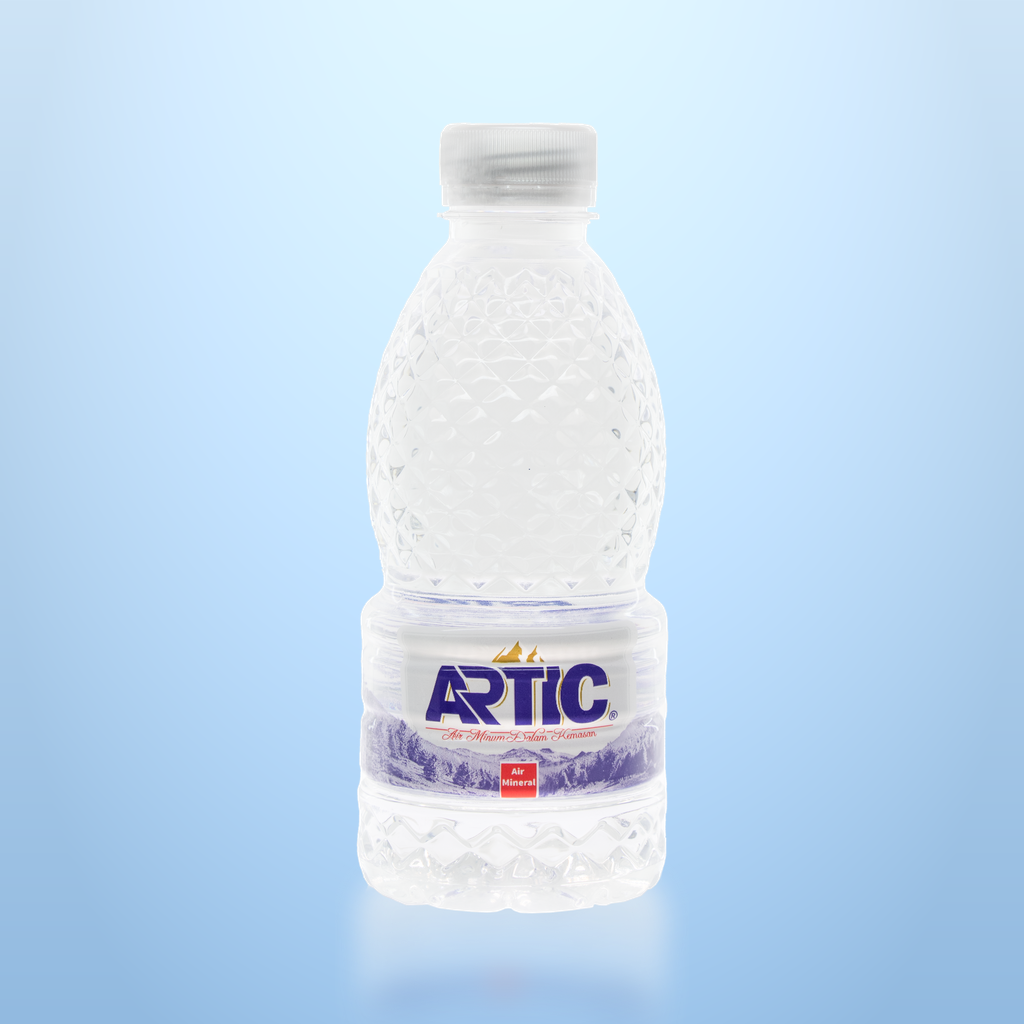
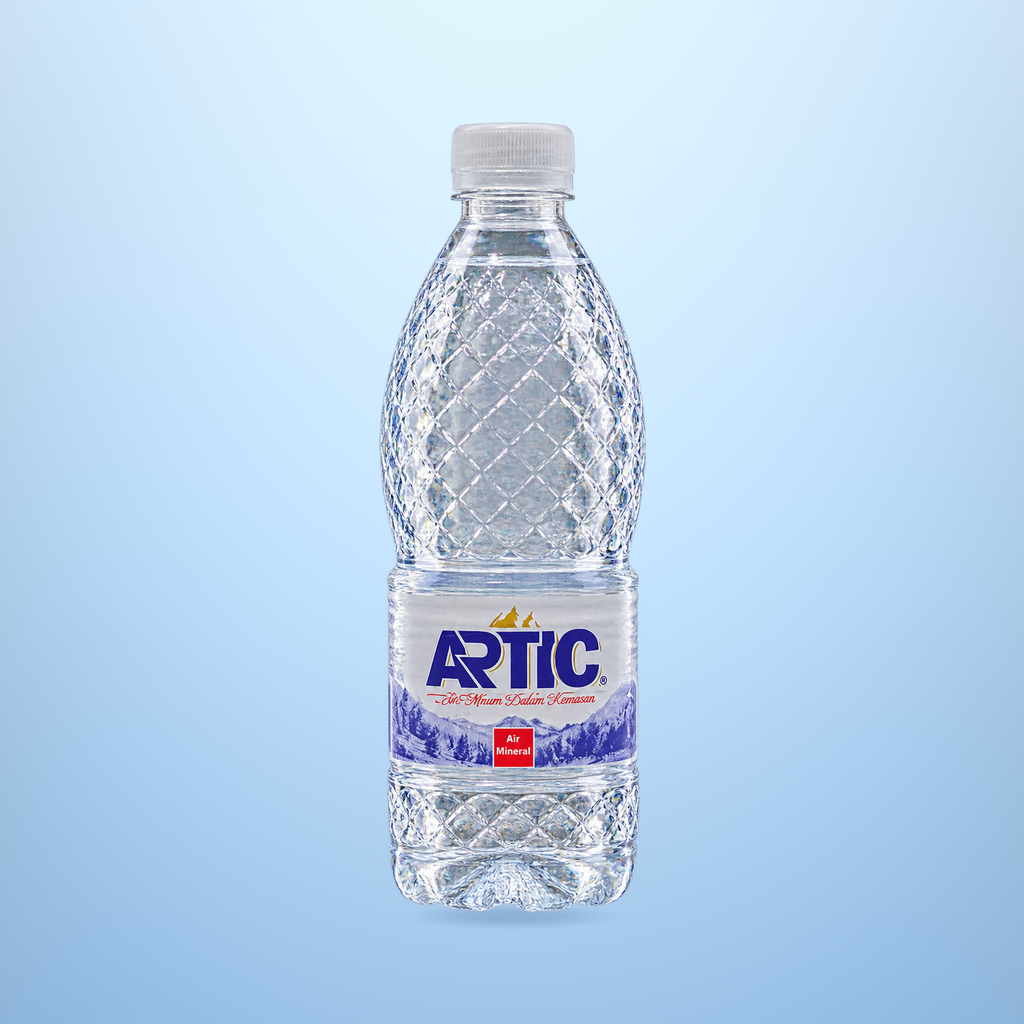
Clear product photos: new 330/600 ml bottles + new hero group (floating.webp), script to replace CMS media

Changed region(s): [[0.3438, 0.125, 0.6562, 0.9688]]

diff --git a/scripts/replace-product-photos.ts b/scripts/replace-product-photos.ts
@@ -1,0 +1,37 @@
+import fs from 'fs'
+import path from 'path'
+import { getPayload } from 'payload'
+
+import config from '../src/payload.config'
+
+// Mengganti berkas foto produk 330 ml dan 600 ml di Foto & Berkas (CMS) tanpa mengubah dokumen lain.
+// Dipakai sekali saat foto baru dari ARTIC (botol bening) dipasang. Ukuran kartu/thumbnail dibuat ulang otomatis.
+//
+// Cara pakai (di server, sebagai user situs; env produksi dimuat dulu):
+//   NEW_330=/path/ke/new330.png NEW_600=/path/ke/new600.png npm run replace-photos
+// Tanpa NEW_330/NEW_600 skrip hanya menampilkan dokumen yang akan diganti (tidak mengubah apa pun).
+const targets: { filename: string; file?: string }[] = [
+  { filename: 'product_330ml.png', file: process.env.NEW_330 },
+  { filename: 'product_600ml.png', file: process.env.NEW_600 },
+]
+
+const payload = await getPayload({ config })
+
+for (const t of targets) {
+  const found = await payload.find({ collection: 'media', where: { filename: { equals: t.filename } }, limit: 2, depth: 0, overrideAccess: true })
+  const doc = found.docs[0]
+  if (!doc) {
+    console.log(`[lewati] ${t.filename}: dokumen media tidak ditemukan`)
+    continue
+  }
+  if (!t.file) {
+    console.log(`[cek] ${t.filename}: id ${doc.id} (isi NEW_330/NEW_600 untuk mengganti)`)
+    continue
+  }
+  const filePath = path.resolve(t.file)
+  if (!fs.existsSync(filePath)) throw new Error(`Berkas baru tidak ditemukan: ${filePath}`)
+  const updated = await payload.update({ collection: 'media', id: doc.id, data: {}, filePath, overrideAccess: true })
+  console.log(`[ok] ${t.filename}: id ${doc.id} -> ${updated.filename} (${updated.width}x${updated.height})`)
+}
+
+process.exit(0)

diff --git a/src/components/site/Hero.tsx b/src/components/site/Hero.tsx
@@ -97,7 +97,7 @@ export default function Hero({ c }: { c: SiteContent }) {
         {banner ? (
           <div className="relative mx-auto w-full max-w-sm lg:max-w-lg">
             <Image
-              src={asset('/images/floating.png')}
+              src={asset('/images/floating.webp')}
               alt="Botol dan galon ARTIC"
               width={800}
               height={800}
@@ -149,7 +149,7 @@ export default function Hero({ c }: { c: SiteContent }) {
               />
             )}
             <Image
-              src={asset('/images/floating.png')}
+              src={asset('/images/floating.webp')}
               alt="Botol dan galon ARTIC"
               width={800}
               height={800}
